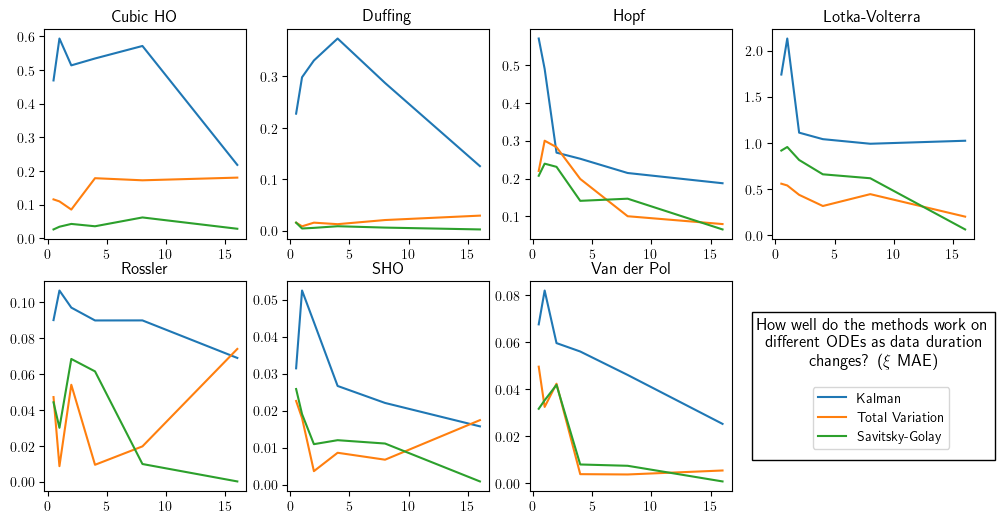
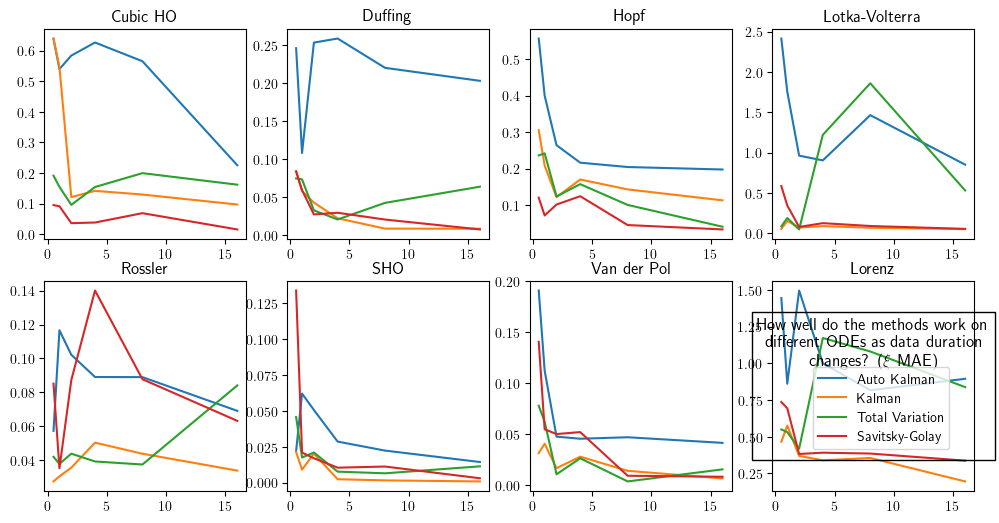
images: Run experiments with new mitosis/find_gridpoints and gen new figures

diff --git a/images/gen_image/composite_plots.py b/images/gen_image/composite_plots.py
@@ -3,13 +3,14 @@ import ksindy_figs.plotting as plots
 from ksindy_figs.plotting import ExpKey
 
 exp_hexes = {
-    "Cubic HO": ExpKey("23526c"),
-    "Duffing": ExpKey("23de18"),
-    "Hopf": ExpKey("0b9747"),
-    "Lotka-Volterra": ExpKey("539481"),
-    "Rossler": ExpKey("7b9e27"),
-    "SHO": ExpKey("c5d866"),
-    "Van der Pol": ExpKey("48a935"),
+    "Cubic HO": ExpKey("c58ea9"),
+    "Duffing": ExpKey("866ee1"),
+    "Hopf": ExpKey("3316d2"),
+    "Lotka-Volterra": ExpKey("71892e"),
+    "Rossler": ExpKey("b5d7dd"),
+    "SHO": ExpKey("ee2836"),
+    "Van der Pol": ExpKey("6355c5"),
+    "Lorenz": ExpKey("6d651b")
 }
 
 # %%
@@ -134,11 +135,11 @@ results = load_mitosis_5(exp_hexes["Cubic HO"], trials_folder=TRIAL_DATA)
 # )
 
 # %%
-from gen_experiments.odes import plot_ode_panel
-from gen_experiments.gridsearch import find_gridpoints, GridLocator
+# from gen_experiments.odes import plot_ode_panel
+# from gen_experiments.gridsearch import find_gridpoints, GridLocator
 
-where = GridLocator()
-single_result = find_gridpoints(results, params=params_kalman)
-plot_ode_panel(cast(FullSINDyTrialData, single_result))
+# where = GridLocator()
+# single_result = find_gridpoints(results, params=params_kalman)
+# plot_ode_panel(cast(FullSINDyTrialData, single_result))
 
 # %%
